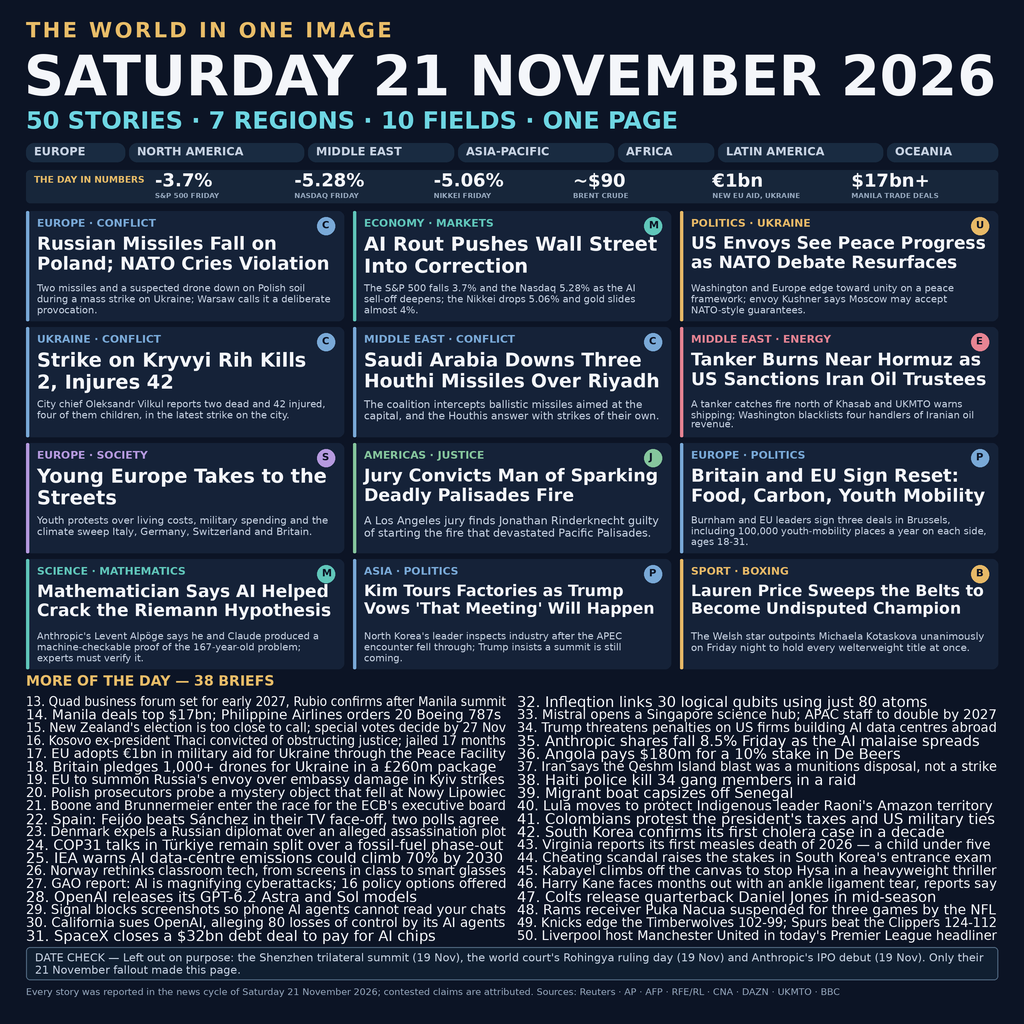
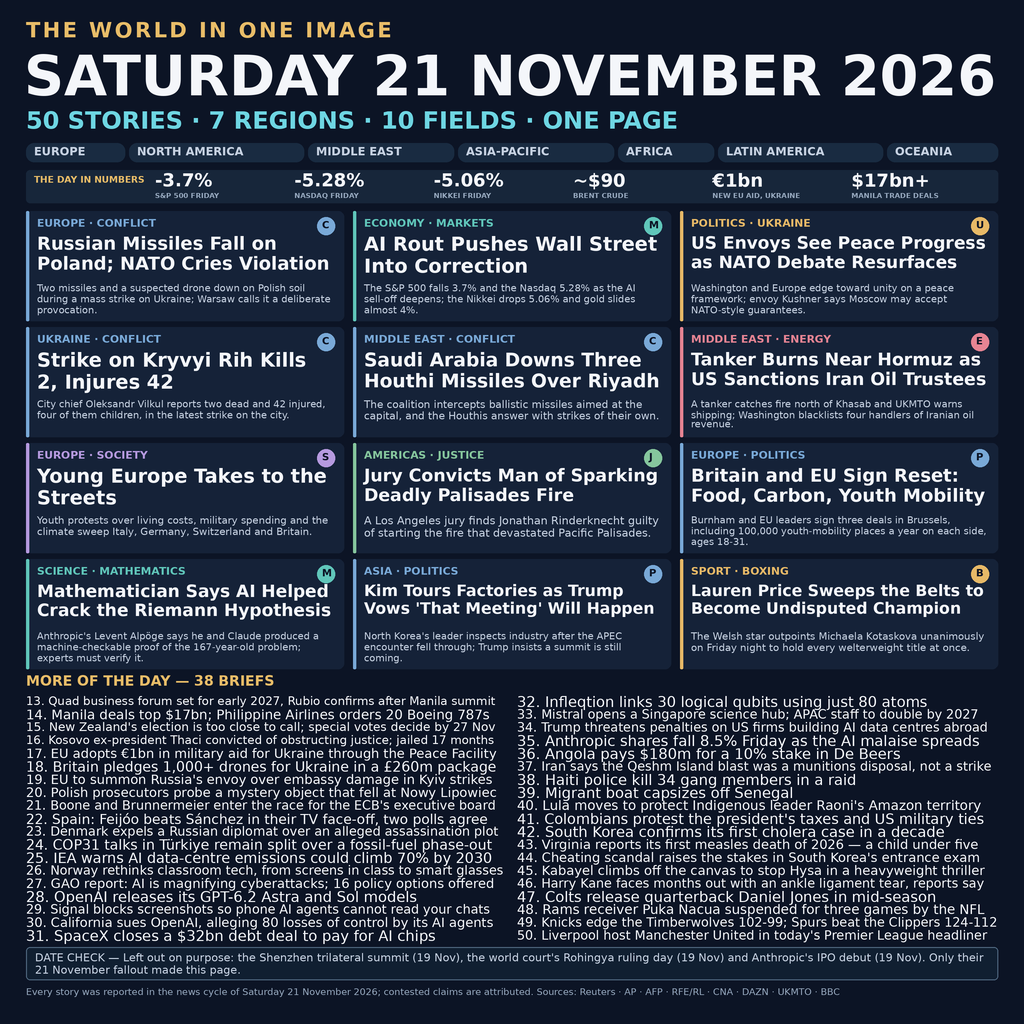
Improve brief legibility: smaller font instead of horizontal condensing

Changed region(s): [[0.0312, 0.6562, 0.9688, 0.9375]]

diff --git a/draw.py b/draw.py
@@ -38,23 +38,14 @@ def render(root):
         coords = tuple(round(v*S) for v in box)
         pen.rounded_rectangle(coords, radius=round(radius*S), fill=fill, outline=outline, width=S)
 
-    def line(text, x, y, w, size, kind='regular', color=WHITE, minimum=6, squeeze=False):
+    def line(text, x, y, w, size, kind='regular', color=WHITE, minimum=6):
         original = size
         while width(text, font(kind, size)) > w and size > minimum:
             size = max(minimum, size-0.25)
         face = font(kind, size)
         measured = width(text, face)
-        if measured > w:
-            assert squeeze, (text, measured, w)
-            bbox = face.getbbox(text)
-            layer = Image.new('RGBA', (int(measured*S)+4, bbox[3]-bbox[1]+4), (0, 0, 0, 0))
-            ImageDraw.Draw(layer).text((0, 0), text, font=face, fill=color, anchor='lt')
-            layer = layer.resize((round(w*S), layer.height), Image.Resampling.LANCZOS)
-            image.paste(layer, (round(x*S), round(y*S)), layer)
-            adjustments.append(('condensed', text, round(w/measured, 3)))
-        else:
-            assert measured <= w + 0.01
-            pen.text((round(x*S), round(y*S)), text, font=face, fill=color, anchor='lt')
+        assert measured <= w + 0.01, (text, measured, w)
+        pen.text((round(x*S), round(y*S)), text, font=face, fill=color, anchor='lt')
         if size != original:
             adjustments.append(('font', text, size))
         return size
@@ -134,7 +125,17 @@ def render(root):
     for i, brief in enumerate(data['briefs']):
         x = 26+(i // 19)*491
         y = 696+(i % 19)*13
-        line(brief, x, y, 481, 14.5, minimum=13.5, squeeze=True)
+        # Preserve glyph proportions: reclaim the right inset at 12.5px,
+        # then reduce type further only if the full column is still too narrow.
+        column_width = 481
+        available = column_width-10
+        size = 14.5
+        while size > 12.5 and width(brief, font('regular', size)) > available:
+            size -= 0.25
+        if width(brief, font('regular', size)) > available:
+            available = column_width
+        fitted = line(brief, x, y, available, size, minimum=6)
+        adjustments.append(('brief', brief, fitted, available))
     rect((26, 947, 998, 980), '#101F31', outline='#506880', radius=4)
     paragraph(data['date_check'], (35, 953, 954, 25), 11, color=PALE, maxlines=2)
     paragraph(data['footer'], (26, 988, 972, 23), 9.5, color=MUTED, maxlines=2)

diff --git a/README.md b/README.md
@@ -15,7 +15,9 @@ Sources named in the supplied brief: Reuters · AP · AFP · RFE/RL · CNA · DA
 
 ## Reproducibility and layout
 
-`stories.json` holds all editorial content. `draw.py` measures every rendered line with Pillow, wraps and shrinks lead text, and asserts that final headline lines fit. Briefs step down to 13.5px and, when the DejaVu fallback remains too wide, are horizontally condensed without changing or clipping text. The dense 50-story specification requires smaller type inside the cards than the suggested nominal sizes.
+`stories.json` holds all editorial content. `draw.py` measures every rendered line with Pillow, wraps and shrinks lead text, and asserts that final headline lines fit. Briefs shrink in 0.25px steps without horizontal distortion. At 12.5px, a line can reclaim the 10px right inset to use its full 481px column; only if that still fails does the type shrink further. No text is shortened or clipped. The dense 50-story specification requires smaller type inside the cards than the suggested nominal sizes.
+
+A 300×300 inspection confirms that the date remains clear, but the numbers are marginal and the card details and briefs are too small for comfortable reading. Use the full-resolution image to read all 50 stories.
 
 The six requested Google Fonts downloads were attempted during the build, but the network proxy was unreachable. Rendering therefore uses system DejaVu Sans and DejaVu Sans Bold; `assets/` is reserved for the requested downloaded fonts. No downloaded font files or font licences are present.
 
